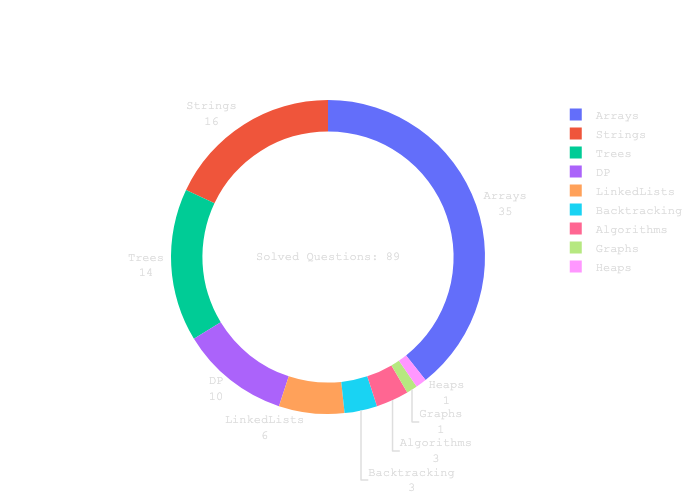
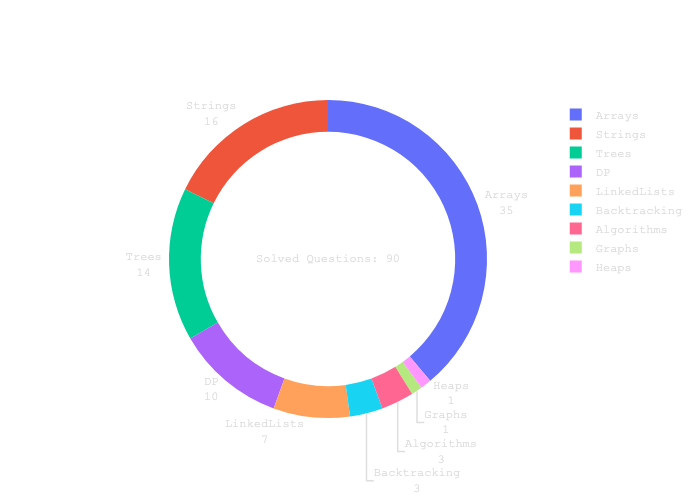
odd even linked list

diff --git a/LinkedLists/oddEvenLL.py b/LinkedLists/oddEvenLL.py
@@ -1,0 +1,24 @@
+from typing import Optional
+from utils.ListNode import ListNode, generateList
+
+
+def oddEvenList(head: Optional[ListNode]) -> Optional[ListNode]:
+    if not head or not head.next or not head.next.next:
+        return head
+
+    even = head
+    oddHead = even.next
+    odd = even.next
+    while even.next and odd.next:
+        even.next = odd.next
+        even = even.next
+        odd.next = even.next
+        odd = odd.next
+
+    even.next = oddHead
+    return head
+
+
+print(oddEvenList(generateList([1, 2, 3, 4, 5, 6])))
+print(oddEvenList(generateList([1, 2, 3])))
+print(oddEvenList(generateList([1])))
